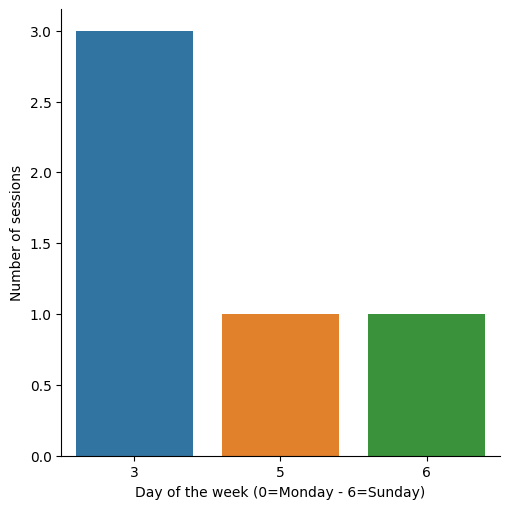
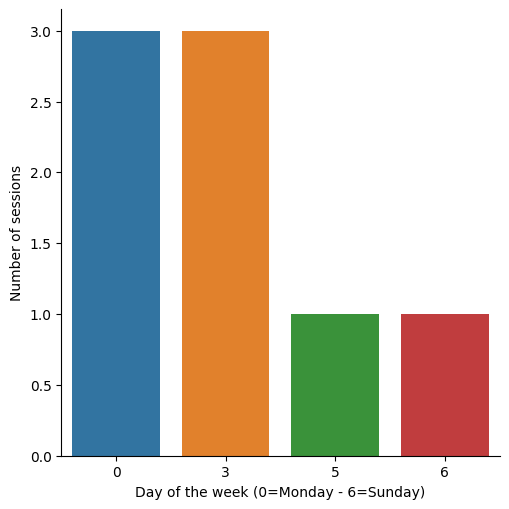
"Stats generated 2021-07-06"

diff --git a/all/2021/7/weekdays/0/index.html b/all/2021/7/weekdays/0/index.html
@@ -1,0 +1,29 @@
+<!DOCTYPE html>
+<html>
+  <head>
+    <meta charset="utf-8"/>
+    <title>Mondays July 2021</title>
+    <link rel="stylesheet" href="../../../../../styles.css"/>
+  </head>
+  <body>
+    <div id="container">
+      <nav>
+        <ul>
+          
+            <li><a href="../../">July 2021</a></li>
+            <li class="separator"></li>
+          
+          
+        </ul>
+      </nav>
+      <main>
+        <h1>Mondays July 2021</h1>
+        
+          <h2>Number of sessions per hour</h2>
+          <img src="sessions.png" alt="Number of sessions per hour"/>
+        
+        
+      </main>
+    </div>
+  </body>
+</html>

diff --git a/all/2021/7/days/5/index.html b/all/2021/7/days/5/index.html
@@ -1,0 +1,29 @@
+<!DOCTYPE html>
+<html>
+  <head>
+    <meta charset="utf-8"/>
+    <title>5 July 2021</title>
+    <link rel="stylesheet" href="../../../../../styles.css"/>
+  </head>
+  <body>
+    <div id="container">
+      <nav>
+        <ul>
+          
+            <li><a href="../../">July 2021</a></li>
+            <li class="separator"></li>
+          
+          
+        </ul>
+      </nav>
+      <main>
+        <h1>5 July 2021</h1>
+        
+          <h2>Number of sessions per hour</h2>
+          <img src="sessions.png" alt="Number of sessions per hour"/>
+        
+        
+      </main>
+    </div>
+  </body>
+</html>

diff --git a/all/2021/7/index.html b/all/2021/7/index.html
@@ -19,6 +19,10 @@
             
           
             
+              <li><a href="weekdays/0/">Monday</a></li>
+            
+          
+            
               <li><a href="weekdays/3/">Thursday</a></li>
             
           
@@ -44,6 +48,10 @@
           
             
               <li><a href="days/4/">4</a></li>
+            
+          
+            
+              <li><a href="days/5/">5</a></li>
             
           
         </ul>

diff --git a/all/2021/index.html b/all/2021/index.html
@@ -121,9 +121,9 @@
                   
                     <td>7.0</td>
                   
-                    <td>5.0</td>
+                    <td>8.0</td>
                   
-                    <td>87.0559444</td>
+                    <td>47.664459625000006</td>
                   
                 </tr>
               
